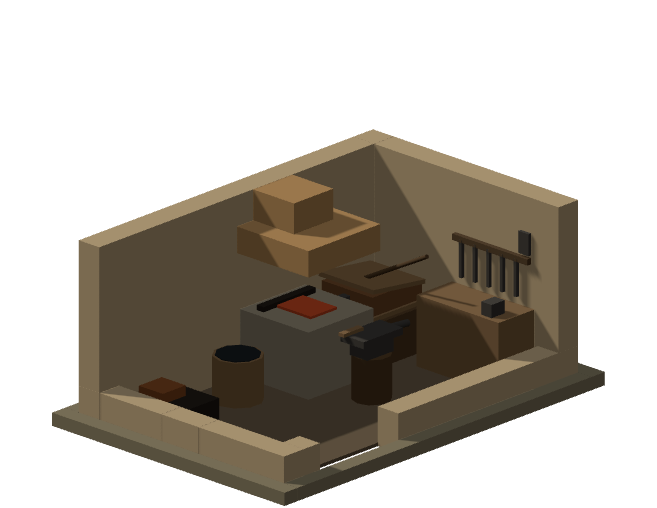
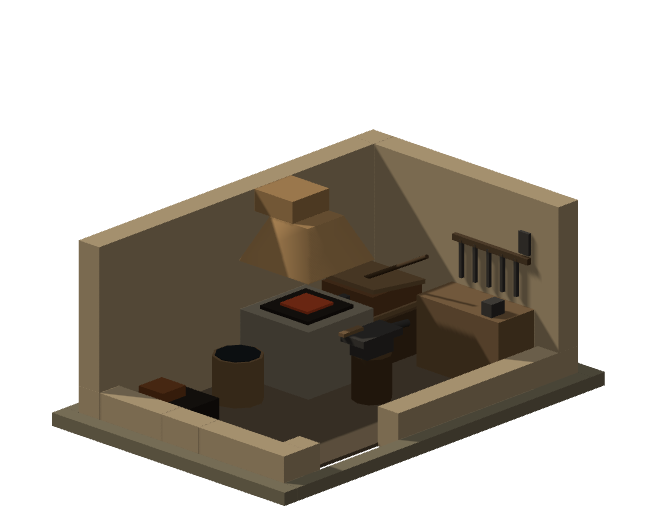
art: the kuznia's hearth remodelled for request K4
A black bar lay across the fire like a pipe. Now the coals lie on the
fire-bed, and the hood is a clay funnel against the west wall rising into
the flue. Same canvas and plan.

Claude-Session: https://claude.ai/code/session_01WZ5eKwdqHuUTMZiT9Y5prR

diff --git a/godot-demo/tools/model/kuznia.js b/godot-demo/tools/model/kuznia.js
@@ -87,10 +87,17 @@ export function build(THREE, opts = {}) {
   // the horn: a waist-high hearth of stone and clay against the west wall, the
   // fire-bed on top with embers, the clay hood over it narrowing to the flue
   fur("horn", t, 0, -3.15, t + 1.0, 0.8, -2.15, C.stone);
-  K.box("fire_bed", t + 0.25, 0.8, -2.85, t + 0.75, 0.83, -2.45, C.ember, inside);
-  K.box("coals", t + 0.15, 0.8, -3.05, t + 0.25, 0.86, -2.25, C.char, inside);
-  K.box("hood", t, 1.45, -3.2, t + 1.05, 1.75, -2.1, C.clay, inside);
-  K.box("flue", t, 1.75, -2.95, t + 0.6, h, -2.35, C.clay, inside);
+  // the coals heaped low on the fire-bed, glowing in the middle
+  K.box("coal_bed", t + 0.15, 0.8, -3.0, t + 0.85, 0.84, -2.3, C.char, inside);
+  K.box("embers", t + 0.3, 0.84, -2.85, t + 0.7, 0.87, -2.45, C.ember, inside);
+  // the hood: a clay funnel against the west wall, wide over the fire and
+  // narrowing up into the flue, which climbs the wall to the roof
+  const hood = new THREE.Mesh(new THREE.CylinderGeometry(0.39, 0.72, 0.5, 4, 1), K.mat(C.clay));
+  hood.rotation.y = Math.PI / 4;
+  hood.position.set(t + 0.5, 1.6, -2.65);
+  hood.name = "hood";
+  inside.add(hood);
+  K.box("flue", t, 1.85, -2.93, t + 0.56, h, -2.37, C.clay, inside);
   // the mikh: two boards and leather between them, on a trestle north of the
   // horn, its nozzle to the fire; a pole to work it
   fur("mikh_stand", t, 0, -Z + t + 0.05, t + 0.9, 0.55, -3.25, C.woodDark);
